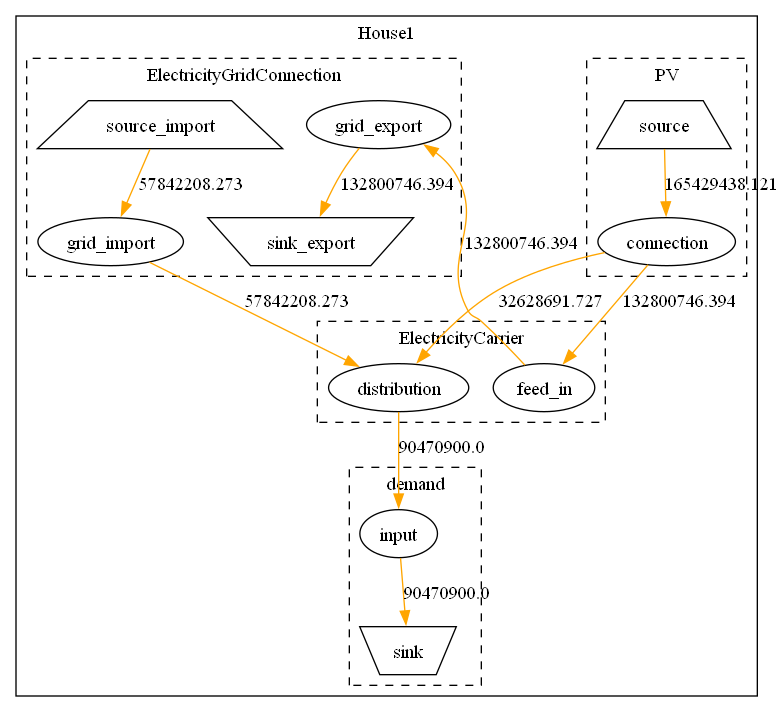
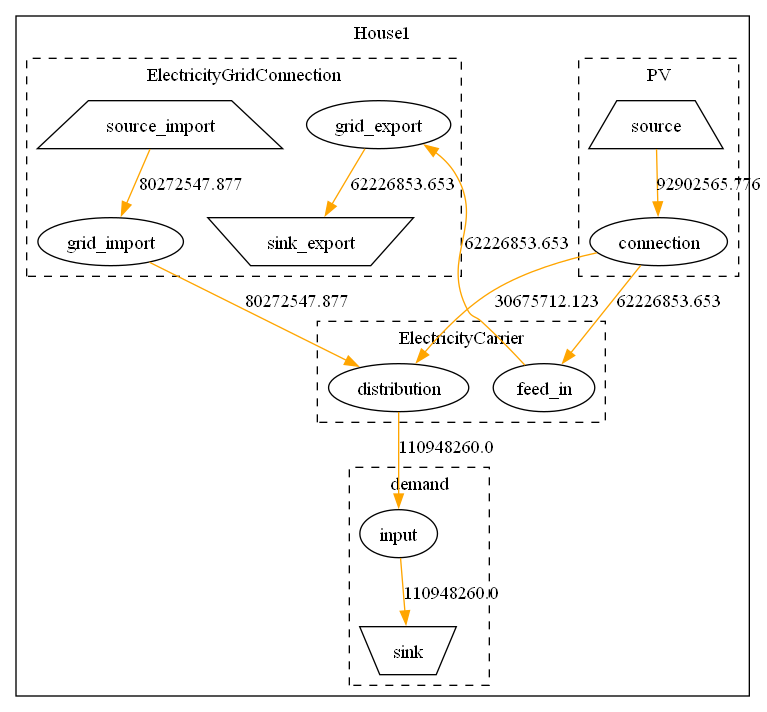
Test_SOC2

diff --git a/examples/basic_examples/House1/test2.py b/examples/basic_examples/House1/test2.py
@@ -1,0 +1,130 @@
+import os
+import pandas as pd
+import matplotlib.pyplot as plt
+import matplotlib.dates as mdates
+from matplotlib.backends.backend_pdf import PdfPages
+
+def calculate_soc_from_flows(charge_series, discharge_series, index,
+                              nominal_capacity_wh=5000, initial_soc_percent=50):
+    """
+    Calculates the State of Charge (SOC) of a battery based on charge and discharge power flows.
+
+    Assumes that the charge and discharge values in the input series already account for
+    efficiency and internal losses. The SOC is tracked based on the net energy change
+    from the initial SOC.
+
+    Args:
+        charge_series (pd.Series): A pandas Series of charge power (in Watts) over time.
+        discharge_series (pd.Series): A pandas Series of discharge power (in Watts) over time.
+        index (pd.Index): The pandas Index representing the timestamps of the data.
+        nominal_capacity_wh (float): The nominal energy capacity of the battery in Watt-hours.
+        initial_soc_percent (float): The initial State of Charge as a percentage (0-100).
+
+    Returns:
+        list: A list of SOC values (in percentage) at each time point.
+    """
+    soc_values_percent = [initial_soc_percent]
+    current_soc_wh = (initial_soc_percent / 100) * nominal_capacity_wh
+
+    for i in range(1, len(index)):
+        dt_seconds = (index[i] - index[i - 1]).total_seconds()
+        dt_hours = dt_seconds / 3600
+
+        charge_energy_wh = charge_series.iloc[i] * dt_hours
+        discharge_energy_wh = discharge_series.iloc[i] * dt_hours
+
+        net_energy_change_wh = charge_energy_wh - discharge_energy_wh
+        current_soc_wh += net_energy_change_wh
+
+        # Ensure SOC stays within 0% and 100% (though the problem states no clipping)
+        #current_soc_wh = max(0, min(nominal_capacity_wh, current_soc_wh))
+
+        soc_percentage = (current_soc_wh / nominal_capacity_wh) * 100
+        soc_values_percent.append(soc_percentage)
+
+    return soc_values_percent
+
+
+os.chdir(os.path.dirname(__file__))
+
+results = pd.read_csv(os.path.join("flows", "flow_W_dec23.csv"), header=[0, 1], index_col=0)
+
+df = pd.DataFrame()
+df["Battery_charge"] = results[[
+    ("SolphLabel(location='House1', mtress_component='ElectricityCarrier', solph_node='distribution')",
+     "SolphLabel(location='House1', mtress_component='storage1', solph_node='Battery_Storage')")
+]]
+
+df["Battery_discharge"] = results[[
+    ("SolphLabel(location='House1', mtress_component='storage1', solph_node='Battery_Storage')",
+     "SolphLabel(location='House1', mtress_component='ElectricityCarrier', solph_node='distribution')")
+]]
+
+df["PV_distribution"] = results[[
+    ("SolphLabel(location='House1', mtress_component='PV', solph_node='connection')",
+     "SolphLabel(location='House1', mtress_component='ElectricityCarrier', solph_node='distribution')")
+]]
+
+df["Demand2"] = results[[
+    ("SolphLabel(location='House1', mtress_component='ElectricityCarrier', solph_node='distribution')",
+     "SolphLabel(location='House1', mtress_component='demand', solph_node='input')")
+]]
+
+df.index = pd.to_datetime(df.index, utc=True)
+
+# ---- Calculate SOC ----
+df["SOC_%"] = calculate_soc_from_flows(df["Battery_charge"].squeeze(), df["Battery_discharge"].squeeze(), df.index)
+
+# ---- Plotting ----
+start_date = pd.to_datetime('2023-12-01', utc=True).date()
+end_date = pd.to_datetime('2023-12-31', utc=True).date()
+delta = pd.Timedelta(days=5)
+pdf_path = os.path.join("pdf", "soc_dec323.pdf")
+
+with PdfPages(pdf_path) as pdf:
+    current_date = start_date
+    while current_date <= end_date:
+        end_interval = current_date + pd.Timedelta(days=4)
+        if end_interval > end_date:
+            end_interval = end_date
+
+        start_time_interval = pd.to_datetime(str(current_date), utc=True)
+        end_time_interval = pd.to_datetime(str(end_interval) + ' 23:59:59', utc=True)
+
+        df_filtered = df[(df.index >= start_time_interval) & (df.index <= end_time_interval)].copy()
+
+        if not df_filtered.empty:
+            fig, axes = plt.subplots(nrows=3, ncols=1, figsize=(14, 18), sharex=True)
+            plt.subplots_adjust(hspace=0.4)
+
+            # Plot 1: PV vs Demand
+            df_filtered["PV_distribution"].plot(ax=axes[0], label="PV Distribution (W)", color="green")
+            df_filtered["Demand2"].plot(ax=axes[0], label="Demand (W)", color="red")
+            axes[0].set_ylabel("Power (W)")
+            axes[0].legend()
+            axes[0].grid(True)
+
+            # Plot 2: Battery flows
+            df_filtered["Battery_charge"].plot(ax=axes[1], label="Battery Charge (W)", color="orange")
+            df_filtered["Battery_discharge"].plot(ax=axes[1], label="Battery Discharge (W)", color="purple", linestyle='--')
+            axes[1].set_ylabel("Power (W)")
+            axes[1].legend()
+            axes[1].grid(True)
+
+            # Plot 3: SOC %
+            df_filtered["SOC_%"].plot(ax=axes[2], label="State of Charge (%)", color="blue")
+            axes[2].set_ylabel("SOC (%)")
+            axes[2].set_xlabel("Time")
+            axes[2].legend()
+            axes[2].grid(True)
+
+            start_str = current_date.strftime('%Y-%m-%d')
+            end_str = end_interval.strftime('%Y-%m-%d')
+            fig.suptitle(f"Battery and PV Analysis ({start_str} to {end_str})", fontsize=16)
+            plt.tight_layout(rect=[0, 0.03, 1, 0.95])
+            pdf.savefig(fig)
+            plt.close(fig)
+
+        current_date += delta
+
+print(f"PDF saved at: {pdf_path}")

diff --git a/examples/basic_examples/House1/results.py b/examples/basic_examples/House1/results.py
@@ -6,19 +6,19 @@ from matplotlib.backends.backend_pdf import PdfPages
 
 os.chdir(os.path.dirname(__file__))
 
-results = pd.read_csv(os.path.join("flows", "flow_W_dec23.csv"), header=[0, 1], index_col=0)
+results = pd.read_csv(os.path.join("flows_nobattery", "flow_NB_apr23.csv"), header=[0, 1], index_col=0)
 
 df = pd.DataFrame()
 
-df["Battery_charge"] = results[ [
-        ("SolphLabel(location='House1', mtress_component='ElectricityCarrier', solph_node='distribution')",
-         "SolphLabel(location='House1', mtress_component='storage1', solph_node='Battery_Storage')")
-    ]]
+# df["Battery_charge"] = results[ [
+#         ("SolphLabel(location='House1', mtress_component='ElectricityCarrier', solph_node='distribution')",
+#          "SolphLabel(location='House1', mtress_component='storage1', solph_node='Battery_Storage')")
+#     ]]
 
-df["Battery_discharge"] = results[[
-        ("SolphLabel(location='House1', mtress_component='storage1', solph_node='Battery_Storage')",
-         "SolphLabel(location='House1', mtress_component='ElectricityCarrier', solph_node='distribution')")
-    ]]
+# df["Battery_discharge"] = results[[
+#         ("SolphLabel(location='House1', mtress_component='storage1', solph_node='Battery_Storage')",
+#          "SolphLabel(location='House1', mtress_component='ElectricityCarrier', solph_node='distribution')")
+#     ]]
 
 df["PV_production"] =results[[("SolphLabel(location='House1', mtress_component='PV', solph_node='source')",
                                  "SolphLabel(location='House1', mtress_component='PV', solph_node='connection')")]]
@@ -37,10 +37,10 @@ df["Grid_export"] = results[[("SolphLabel(location='House1', mtress_component='E
 
 df.index = pd.to_datetime(df.index, utc=True)
 
-start_date = pd.to_datetime('2023-06-01', utc=True).date()
-end_date = pd.to_datetime('2023-06-30', utc=True).date()
+start_date = pd.to_datetime('2023-04-01', utc=True).date()
+end_date = pd.to_datetime('2023-04-30', utc=True).date()
 delta = pd.Timedelta(days=5)
-pdf_path = os.path.join("pdf", "jun23.pdf")
+pdf_path = os.path.join("pdf", "nb_apr23.pdf")
 
 with PdfPages(pdf_path) as pdf:
     current_date = start_date
@@ -54,7 +54,7 @@ with PdfPages(pdf_path) as pdf:
         df_filtered = df[(df.index >= start_time_interval) & (df.index <= end_time_interval)].copy()
 
         if not df_filtered.empty:
-            fig, axes = plt.subplots(nrows=3, ncols=1, figsize=(14, 20), sharex=True)
+            fig, axes = plt.subplots(nrows=2, ncols=1, figsize=(14, 20), sharex=True)
             plt.subplots_adjust(hspace=0.5)
 
             # Plot 1: PV Production and Distribution
@@ -74,12 +74,12 @@ with PdfPages(pdf_path) as pdf:
 
 
             # Plot 4: Battery Charge and Negative Battery Discharge
-            df_filtered["Battery_charge"].plot(ax=axes[2], label="Battery Charge (Wh)", color="orange")
-            (df_filtered["Battery_discharge"]).plot(ax=axes[2], label=" Battery Discharge (Wh)", color="purple", linestyle='--')
-            axes[2].set_xlabel("Time")
-            axes[2].set_ylabel("Energy (Wh)")
-            axes[2].legend(bbox_to_anchor=(1, 1), loc='upper right')
-            axes[2].grid(True)
+            # df_filtered["Battery_charge"].plot(ax=axes[2], label="Battery Charge (Wh)", color="orange")
+            # (df_filtered["Battery_discharge"]).plot(ax=axes[2], label=" Battery Discharge (Wh)", color="purple", linestyle='--')
+            # axes[2].set_xlabel("Time")
+            # axes[2].set_ylabel("Energy (Wh)")
+            # axes[2].legend(bbox_to_anchor=(1, 1), loc='upper right')
+            # axes[2].grid(True)
 
             start_date_str = current_date.strftime('%Y-%m-%d')
             end_date_str = end_interval.strftime('%Y-%m-%d')

diff --git a/examples/basic_examples/House1/test_soc.py b/examples/basic_examples/House1/test_soc.py
@@ -3,30 +3,6 @@ import pandas as pd
 import matplotlib.pyplot as plt
 from matplotlib.backends.backend_pdf import PdfPages
 
-# def soc(charge_series, discharge_series, index, 
-#         nominal_capacity_wh=5000, charge_eff=0.96, discharge_eff=0.96, 
-#         loss_rate=0.0012, initial_soc_wh=None):
-    
-#     if initial_soc_wh is None:
-#         initial_soc_wh = 0.5 * nominal_capacity_wh
-
-#     soc_values = [initial_soc_wh]
-
-#     for i in range(1, len(index)):
-#         dt_hours = (index[i] - index[i - 1]).total_seconds() / 3600
-#         last_soc = soc_values[-1]
-
-#         charge_energy = charge_series.iloc[i] * charge_eff * dt_hours
-#         discharge_energy = discharge_series.iloc[i] / discharge_eff * dt_hours
-#         loss = loss_rate * nominal_capacity_wh * dt_hours
-
-#         new_soc = last_soc + charge_energy - discharge_energy - loss
-#       #  new_soc = max(0, min(nominal_capacity_wh, new_soc))
-#         soc_values.append(new_soc)
-
-#     return [val / nominal_capacity_wh * 100 for val in soc_values]
-
-
 def soc(charge_series, discharge_series, index, 
         nominal_capacity_wh=5000, charge_eff=0.96, discharge_eff=0.96, 
         loss_rate=0.0005, initial_soc_wh=None, soc_min_frac=0.1):
@@ -54,10 +30,9 @@ def soc(charge_series, discharge_series, index,
 
     return [val / nominal_capacity_wh * 100 for val in soc_values]
 
-
 os.chdir(os.path.dirname(__file__))
 
-results = pd.read_csv(os.path.join("flows", "flow_W_jun23.csv"), header=[0, 1], index_col=0)
+results = pd.read_csv(os.path.join("flows", "flow_W_dec23.csv"), header=[0, 1], index_col=0)
 
 df = pd.DataFrame()
 df["Battery_charge"] = results[[

diff --git a/examples/basic_examples/House1/House1.py b/examples/basic_examples/House1/House1.py
@@ -26,8 +26,8 @@ House1.add(carriers.ElectricityCarrier())
 House1.add(technologies.ElectricityGridConnection(working_rate=35e-6, revenue=8e-6))
 op_data = pd.read_csv(os.path.join("..","..", "op_data_power.csv"))
 time_index = {
-    "start": "2023-04-01 00:00:00",
-    "end": "2023-04-30 23:59:00",
+    "start": "2023-03-01 00:00:00",
+    "end": "2023-03-31 23:59:00",
     "freq": "min",
     "tz": "Europe/Berlin",
 }
@@ -99,4 +99,4 @@ solph_representation.build_solph_model()
 
 output = pd.DataFrame(flows)
 #saving flows in csv file
-output.to_csv(os.path.join("flows_nobattery", "flow_NB_apr23.csv"), index=True)
+output.to_csv(os.path.join("flows", "flow_W_mar23.csv"), index=True)